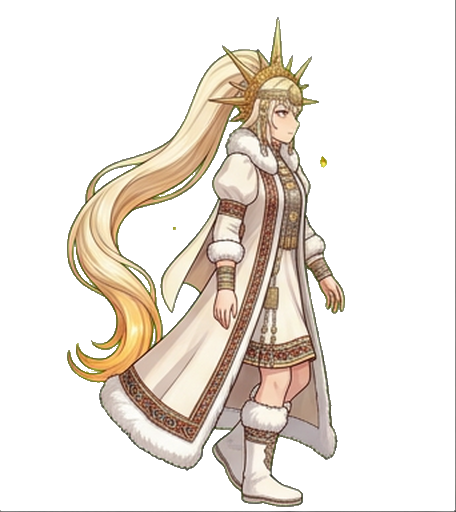
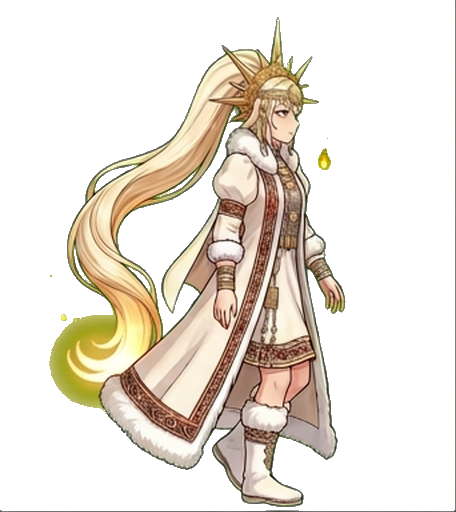
Add glowing Kuun Kuo four-hit combo

diff --git a/Assets/Scripts/PlayerController.cs b/Assets/Scripts/PlayerController.cs
@@ -148,6 +148,13 @@ public class PlayerController : MonoBehaviour
     float attackStartedAt = -99f;
     bool attacking;
     bool fallingStrike;      // текущий удар — в падении, ножом вниз
+    Sprite[] currentAttackFrames;
+    Sprite[][] comboAttackSets;
+    int nextComboStep;
+    int activeComboStep = -1;
+    int queuedComboAttacks;
+    float comboExpiresAt;
+    const float ComboQueueWindow = 0.35f;
     readonly System.Collections.Generic.HashSet<Damageable> hitThisSwing =
         new System.Collections.Generic.HashSet<Damageable>();
     readonly System.Collections.Generic.HashSet<Damageable> hitThisDash =
@@ -174,9 +181,18 @@ public class PlayerController : MonoBehaviour
     // оставляет прежний, чтобы игра не сломалась, если какого-то кадра нет.
     public void ApplySkin(Sprite idle, Sprite[] walk, Sprite[] jump,
                           Sprite[] attack, Sprite[] fall, Sprite guard, float walkFramesPerSecond,
-                          bool flying = false, Sprite fly = null, Sprite glide = null)
+                          bool flying = false, Sprite fly = null, Sprite glide = null,
+                          Sprite[][] comboAttacks = null)
     {
         canFly = flying;
+        comboAttackSets = comboAttacks != null && comboAttacks.Length >= 4 ? comboAttacks : null;
+        nextComboStep = 0;
+        activeComboStep = -1;
+        queuedComboAttacks = 0;
+        comboExpiresAt = 0f;
+        attacking = false;
+        fallingStrike = false;
+        currentAttackFrames = null;
         flySprite = fly;
         glideSprite = glide;
         if (idle != null) idleSprite = idle;
@@ -349,38 +365,92 @@ public class PlayerController : MonoBehaviour
         IsGuarding = held && grounded && !attacking;
     }
 
+    bool AttackPressed()
+    {
+        bool clickOnUi = UnityEngine.EventSystems.EventSystem.current != null
+                         && UnityEngine.EventSystems.EventSystem.current.IsPointerOverGameObject();
+        return (Input.GetMouseButtonDown(0) && !clickOnUi)
+            || Input.GetKeyDown(KeyCode.J)
+            || Input.GetKeyDown(KeyCode.K);
+    }
+
     void ReadAttackInput()
     {
+        bool pressed = AttackPressed();
         if (attacking)
         {
             float dur = fallingStrike ? fallAttackDuration : attackDuration;
+            bool comboCanContinue = !fallingStrike && activeComboStep >= 0
+                                    && comboAttackSets != null && grounded;
+            if (pressed && comboCanContinue)
+            {
+                int remainingHits = Mathf.Max(0, 3 - activeComboStep - queuedComboAttacks);
+                if (remainingHits > 0)
+                    queuedComboAttacks++;
+            }
+
             if (Time.time - attackStartedAt >= dur + attackCooldown)
             {
+                bool continueCombo = comboCanContinue && queuedComboAttacks > 0;
                 attacking = false;
                 fallingStrike = false;
+                currentAttackFrames = null;
                 animTimer = 0f;
                 shownFrame = -1;
+
+                if (continueCombo)
+                {
+                    queuedComboAttacks--;
+                    BeginAttack();
+                }
+                else
+                {
+                    queuedComboAttacks = 0;
+                    activeComboStep = -1;
+                }
             }
             return;
         }
 
-        if (attackFrames == null || attackFrames.Length == 0)
+        if (!pressed || (attackFrames == null && comboAttackSets == null))
             return;
 
-        bool clickOnUi = UnityEngine.EventSystems.EventSystem.current != null
-                         && UnityEngine.EventSystems.EventSystem.current.IsPointerOverGameObject();
-        bool pressed = (Input.GetMouseButtonDown(0) && !clickOnUi)
-                    || Input.GetKeyDown(KeyCode.J)
-                    || Input.GetKeyDown(KeyCode.K);
-        if (!pressed)
-            return;
+        BeginAttack();
+    }
 
-        // В воздухе — всегда удар сверху, и на подъёме, и на падении: наземный
-        // горизонтальный взмах в прыжке читался бы как ошибка. Проверка по
-        // grounded, а не по скорости: на вершине дуги скорость ещё вверх, но
-        // героиня уже в воздухе, и удар должен быть воздушным.
+    void BeginAttack()
+    {
+        // В воздухе — всегда удар сверху, и на подъёме, и на падении.
         fallingStrike = !grounded
                      && fallAttackFrames != null && fallAttackFrames.Length > 0;
+        activeComboStep = -1;
+
+        if (fallingStrike)
+        {
+            currentAttackFrames = fallAttackFrames;
+        }
+        else if (comboAttackSets != null && comboAttackSets.Length >= 4)
+        {
+            if (Time.time > comboExpiresAt)
+                nextComboStep = 0;
+            activeComboStep = nextComboStep;
+            nextComboStep = (nextComboStep + 1) % 4;
+            comboExpiresAt = Time.time + attackDuration + attackCooldown + ComboQueueWindow;
+            currentAttackFrames = comboAttackSets[activeComboStep];
+            if (currentAttackFrames == null || currentAttackFrames.Length == 0)
+                currentAttackFrames = attackFrames;
+        }
+        else
+        {
+            currentAttackFrames = attackFrames;
+        }
+
+        if (currentAttackFrames == null || currentAttackFrames.Length == 0)
+        {
+            fallingStrike = false;
+            activeComboStep = -1;
+            return;
+        }
 
         attacking = true;
         attackStartedAt = Time.time;
@@ -523,11 +593,27 @@ public class PlayerController : MonoBehaviour
 
         // Удар при падении достаёт вниз и вперёд, поэтому хитбокс ниже,
         // уже и вытянут по вертикали.
-        Vector2 centre = (Vector2)transform.position
-                       + new Vector2((fallingStrike ? fallHitboxCenterX : hitboxCenterX) * face,
-                                     fallingStrike ? fallHitboxCenterY : hitboxCenterY);
+        float centreX = fallingStrike ? fallHitboxCenterX : hitboxCenterX;
+        float centreY = fallingStrike ? fallHitboxCenterY : hitboxCenterY;
         Vector2 size = fallingStrike ? fallHitboxSize : hitboxSize;
         int damage = fallingStrike ? fallAttackDamage : attackDamage;
+
+        // У четырёх ударов Күн Куо разные области действия; четвёртый — усиленный финал.
+        if (!fallingStrike)
+        {
+            switch (activeComboStep)
+            {
+                case 0: centreX = 0.95f; centreY = 0.95f; size = new Vector2(1.35f, 1.2f); break;
+                case 1: centreX = 1.0f; centreY = 0.75f; size = new Vector2(1.8f, 1.3f); break;
+                case 2: centreX = 0f; centreY = 1.0f; size = new Vector2(2.2f, 2.0f); break;
+                case 3:
+                    centreX = 0.85f; centreY = 1.15f; size = new Vector2(1.8f, 2.2f);
+                    damage = attackDamage + 1;
+                    break;
+            }
+        }
+
+        Vector2 centre = (Vector2)transform.position + new Vector2(centreX * face, centreY);
 
         Collider2D[] hits = Physics2D.OverlapBoxAll(centre, size, 0f);
         foreach (Collider2D h in hits)
@@ -561,17 +647,17 @@ public class PlayerController : MonoBehaviour
             return;
         }
 
-        // Удар важнее ходьбы: пока он играется, кадры шага не показываем
-        if (attacking && attackFrames != null && attackFrames.Length > 0)
+        // Удар важнее ходьбы: у Күн Куо каждый шаг комбо со своими кадрами.
+        if (attacking && currentAttackFrames != null && currentAttackFrames.Length > 0)
         {
             animTimer += Time.deltaTime;
-            int f = (int)(animTimer / attackDuration * attackFrames.Length);
-            if (f >= attackFrames.Length)
-                f = attackFrames.Length - 1;
+            int f = (int)(animTimer / attackDuration * currentAttackFrames.Length);
+            if (f >= currentAttackFrames.Length)
+                f = currentAttackFrames.Length - 1;
             if (f != shownFrame)
             {
                 shownFrame = f;
-                spriteRenderer.sprite = attackFrames[f];
+                spriteRenderer.sprite = currentAttackFrames[f];
             }
             spriteRenderer.flipX = face < 0f;
             return;
@@ -666,5 +752,10 @@ public class PlayerController : MonoBehaviour
         // появились бы на земле, а считали бы себя в воздухе.
         attacking = false;
         fallingStrike = false;
+        currentAttackFrames = null;
+        activeComboStep = -1;
+        queuedComboAttacks = 0;
+        nextComboStep = 0;
+        comboExpiresAt = 0f;
     }
 }

diff --git a/Concepts/kun_kuo/slice_walk.py b/Concepts/kun_kuo/slice_walk.py
@@ -1,14 +1,16 @@
-"""Split Kun Kuo's generated 4x2 green-screen walk sheet into Unity sprites.
+"""Split Kun Kuo's generated walk and 4-hit attack sheets into Unity sprites.
 
-Requires ImageMagick's `convert`. The green matte is removed and its color spill
-is un-mixed from anti-aliased edges before the frames are written as RGBA PNGs.
+Requires ImageMagick's `convert`. Green matte pixels are removed and the
+color spill is un-mixed from anti-aliased edges before writing RGBA PNGs.
+Attack sheet columns are the four combo moves; rows are wind-up and impact.
 """
 from pathlib import Path
 import shutil
 import subprocess
 
 HERE = Path(__file__).resolve().parent
-SHEET = HERE / "walk_sheet_chroma.png"
+WALK_SHEET = HERE / "walk_sheet_chroma.png"
+ATTACK_SHEET = HERE / "attack_sheet_chroma.png"
 OUT = HERE.parent.parent / "Assets" / "Resources" / "Playable" / "Күн Куо"
 CELL_W, CELL_H = 344, 384
 CROP_W, CROP_H = 342, 382  # skip the black separators between cells
@@ -39,25 +41,33 @@ def key_green(rgba):
     return bytes(out)
 
 
+def slice_cell(sheet, col, row, target):
+    x, y = col * CELL_W + 1, row * CELL_H + 1
+    raw = subprocess.check_output([
+        "convert", str(sheet), "-crop", f"{CROP_W}x{CROP_H}+{x}+{y}",
+        "+repage", "-filter", "Lanczos", "-resize", f"{OUT_W}x{OUT_H}!",
+        "-depth", "8", "rgba:-"
+    ])
+    subprocess.run([
+        "convert", "-size", f"{OUT_W}x{OUT_H}", "-depth", "8",
+        "rgba:-", str(target)
+    ], input=key_green(raw), check=True)
+
+
 def main():
     OUT.mkdir(parents=True, exist_ok=True)
+
     for frame in range(8):
         col, row = frame % 4, frame // 4
-        x, y = col * CELL_W + 1, row * CELL_H + 1
-        raw = subprocess.check_output([
-            "convert", str(SHEET), "-crop", f"{CROP_W}x{CROP_H}+{x}+{y}",
-            "+repage", "-filter", "Lanczos", "-resize", f"{OUT_W}x{OUT_H}!",
-            "-depth", "8", "rgba:-"
-        ])
-        keyed = key_green(raw)
-        target = OUT / f"walk_{frame + 1}.png"
-        subprocess.run([
-            "convert", "-size", f"{OUT_W}x{OUT_H}", "-depth", "8",
-            "rgba:-", str(target)
-        ], input=keyed, check=True)
-
+        slice_cell(WALK_SHEET, col, row, OUT / f"walk_{frame + 1}.png")
     shutil.copyfile(OUT / "walk_2.png", OUT / "idle_front.png")
-    print(f"Wrote idle_front.png and eight walk frames to {OUT}")
+
+    for attack in range(4):
+        for stage in range(2):
+            slice_cell(ATTACK_SHEET, attack, stage,
+                       OUT / f"combo_{attack + 1}_{stage + 1}.png")
+
+    print(f"Wrote idle, eight walk frames, and four two-frame combos to {OUT}")
 
 
 if __name__ == "__main__":

diff --git a/Assets/Scripts/GachaSystem.cs b/Assets/Scripts/GachaSystem.cs
@@ -185,6 +185,25 @@ public class GachaSystem : MonoBehaviour
         return list.ToArray();
     }
 
+    static Sprite[][] LoadComboAttackSets(string name)
+    {
+        var combos = new Sprite[4][];
+        bool hasAnyFrames = false;
+        for (int attack = 1; attack <= combos.Length; attack++)
+        {
+            var frames = new List<Sprite>();
+            for (int frame = 1; frame <= 8; frame++)
+            {
+                var sprite = Resources.Load<Sprite>("Playable/" + name + "/combo_" + attack + "_" + frame);
+                if (sprite == null) break;
+                frames.Add(sprite);
+            }
+            combos[attack - 1] = frames.ToArray();
+            hasAnyFrames |= frames.Count > 0;
+        }
+        return hasAnyFrames ? combos : null;
+    }
+
     void ApplyActive()
     {
         var pc = FindObjectOfType<PlayerController>();
@@ -211,10 +230,11 @@ public class GachaSystem : MonoBehaviour
             if (guard == null) guard = defaultSkin.guard;
         }
         Sprite fly = Resources.Load<Sprite>("Playable/" + n + "/fly");
+        Sprite[][] combos = LoadComboAttackSets(n);
         pc.ApplySkin(Resources.Load<Sprite>("Playable/" + n + "/idle_front"), walk, jump,
                      attack, fall, guard, 8f,
                      // есть кадр fly — персонаж умеет летать (у Айыыны это раскрытые крылья)
-                     fly != null, fly, Resources.Load<Sprite>("Playable/" + n + "/glide"));
+                     fly != null, fly, Resources.Load<Sprite>("Playable/" + n + "/glide"), combos);
     }
 
     void SelectAsPlayer(string name)

diff --git a/Assets/Scripts/AbilityHud.cs b/Assets/Scripts/AbilityHud.cs
@@ -30,7 +30,7 @@ public class AbilityHud : MonoBehaviour
         float y = Screen.height - h * 5f - 24f * scale;
 
         GUI.Label(new Rect(x, y - 26f * scale, 420f * scale, 22f * scale),
-                  "1…5 — выбрать способность,   F — применить,   J или мышь — удар",
+                  "1–5 способность, F применить, J/мышь атака (Күн Куо: комбо ×4)",
                   hint);
 
         for (int i = 0; i < 5; i++)
